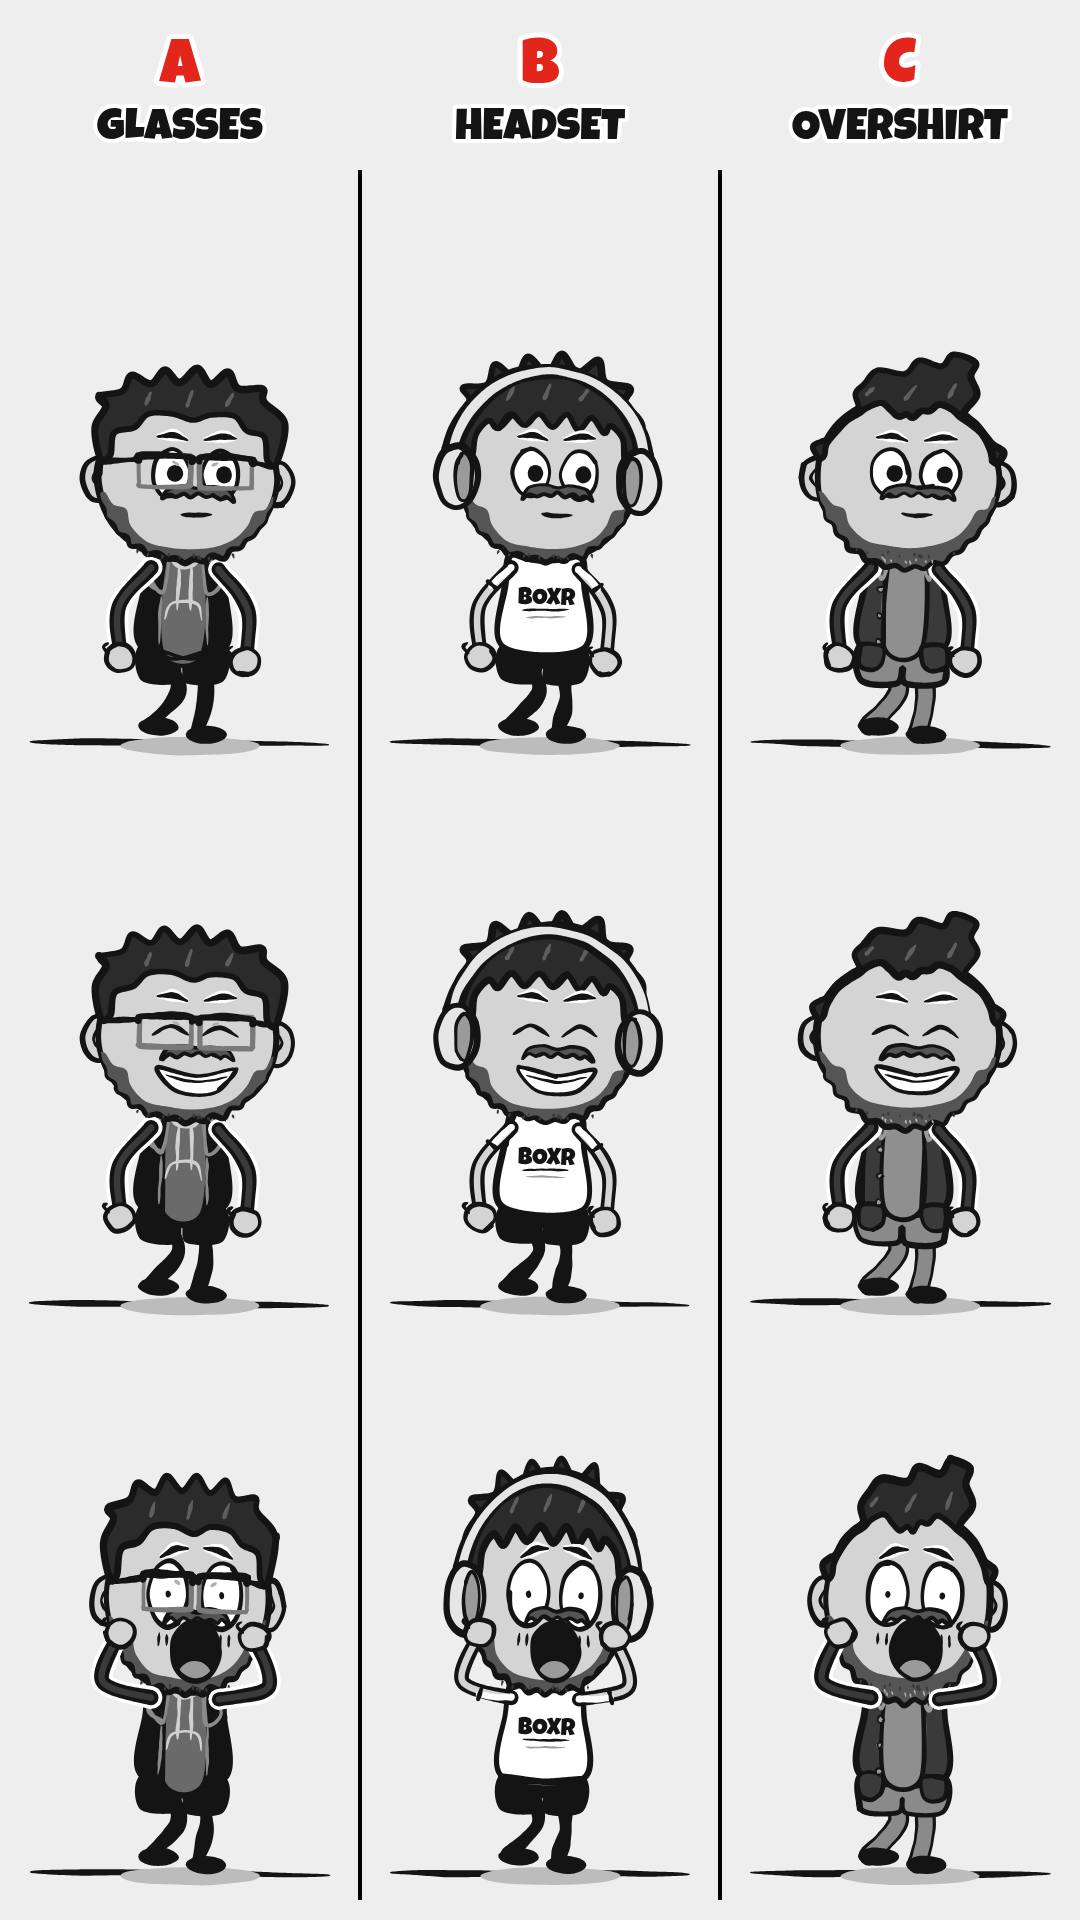
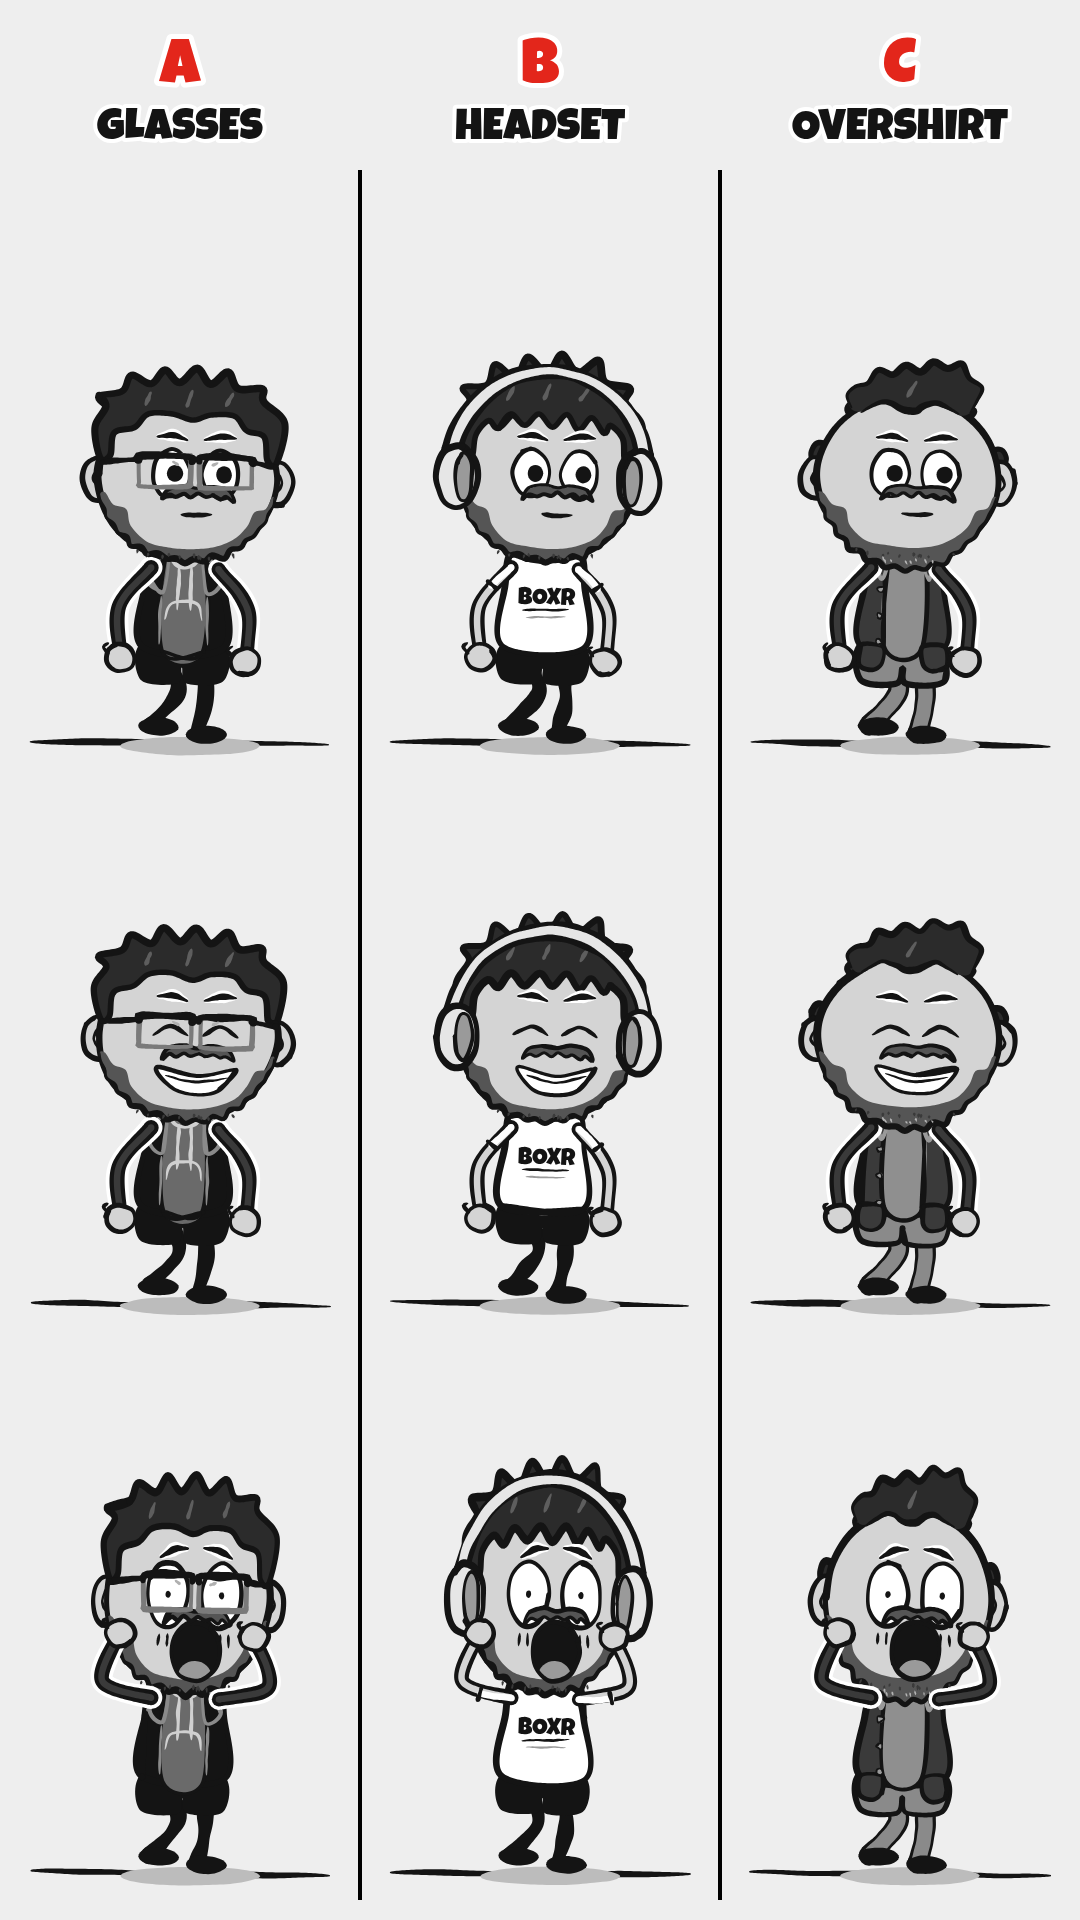
Squeex C: hairline receded further, M-shaped with hair behind the dome
The crown sits further back with bare temples down to the head outline,
a small rounded lobe in the middle, and hair behind the head round the
crown and over the ears, so it reads as hair that has receded. Only
draft C's hair changed.

Claude-Session: https://claude.ai/code/session_01RKmGcx8q1V1rbfKyx6bNrn

diff --git a/web/cameos.js b/web/cameos.js
@@ -1119,19 +1119,36 @@ const Cameos = (() => {
     [[0.88, -0.24], [0.84, -0.5], [0.7, -0.66], [0.62, -0.56], [0.48, -0.74], [0.34, -0.6], [0.2, -0.78], [0.04, -0.62], [-0.12, -0.78],
      [-0.28, -0.62], [-0.44, -0.76], [-0.58, -0.58], [-0.7, -0.68], [-0.84, -0.5], [-0.88, -0.24]],
     [[[-0.5, -0.92], [-0.42, -1.1]], [[-0.08, -0.94], [0.0, -1.14]], [[0.34, -0.94], [0.44, -1.12]]]];
-  const SQ_UP = [   // C: pushed up and back in three locks, the front one lifting off
-    // receding hairline: the outer edge hugs the head at both temples, so the
-    // bare corners show the head outline there (a clear M), with the top mass
-    // starting above them and short hair over the ears below
-    [[-0.98, -0.2], [-1.05, -0.34], [-0.96, -0.42], [-0.9, -0.46], [-0.8, -0.62], [-0.68, -0.74], [-0.56, -0.84],
-     [-0.6, -1.02], [-0.5, -1.16], [-0.36, -1.32], [-0.06, -1.3], [0.08, -1.46], [0.34, -1.4], [0.46, -1.56], [0.7, -1.46],
-     [0.66, -1.28], [0.74, -1.06], [0.6, -0.82], [0.72, -0.7], [0.84, -0.54], [0.92, -0.44], [1.04, -0.34], [0.98, -0.2]],
-    // inner edge stays just inside the head outline through the bays, then
-    // dips to a small tufted forelock in the middle
-    [[0.93, -0.24], [0.9, -0.38], [0.8, -0.56], [0.68, -0.69], [0.56, -0.78], [0.46, -0.86], [0.32, -0.92], [0.22, -0.84],
-     [0.12, -0.84], [0.04, -0.75], [-0.04, -0.79], [-0.12, -0.75], [-0.22, -0.84], [-0.32, -0.92], [-0.46, -0.86],
-     [-0.56, -0.78], [-0.68, -0.69], [-0.8, -0.56], [-0.9, -0.38], [-0.93, -0.24]],
-    [[[-0.5, -1.0], [-0.4, -1.12]], [[-0.06, -0.96], [0.06, -1.16]], [[0.42, -1.0], [0.5, -1.2]]]];
+  // C: receded crown of curls, growing out of sqBackHair (the band round the
+  // dome behind the head). The ends start on that band, so only the curly top
+  // and the hairline are inked and the crown never reads as a separate cap.
+  // The hairline is an M: deep bare notches over each brow, a small rounded lobe in the middle.
+  const SQ_CROWN = [[-0.64, -0.84], [-0.7, -1.0], [-0.6, -1.12], [-0.46, -1.16], [-0.36, -1.32], [-0.2, -1.28], [-0.06, -1.4],
+                    [0.1, -1.32], [0.24, -1.46], [0.4, -1.38], [0.56, -1.44], [0.64, -1.26], [0.78, -1.14], [0.74, -0.98], [0.66, -0.82]];
+  const SQ_LINE_M = [[0.54, -0.8], [0.42, -0.88], [0.3, -0.94], [0.2, -0.92], [0.13, -0.88], [0.07, -0.84], [0, -0.83],
+                     [-0.07, -0.84], [-0.13, -0.88], [-0.2, -0.92], [-0.3, -0.94], [-0.42, -0.88], [-0.54, -0.8]];
+  const sqCrown = ctx => {
+    fill(ctx, hu([...SQ_CROWN, ...SQ_LINE_M]), SQ_HAIR, 1);
+    stroke(ctx, hu(SQ_CROWN), { w: 11, taper0: 0.3, taper1: 0.3 });   // the ends sit on the back band, outside the head outline
+    stroke(ctx, hu(SQ_LINE_M), { w: 11, taper0: 0.5, taper1: 0.5 });
+    stroke(ctx, hu([[-0.04, -1.0], [0.06, -1.2]]), { w: 7, taper0: 0.15, taper1: 0.35, color: SQ_LINE });
+  };
+  // C: hair behind the head, round the top of the dome under the crown and
+  // down to the ears at the sides. It breaks at the temples, so bare skin
+  // meets the head outline there.
+  const sqBackHair = ctx => {
+    for (const [a0, a1] of [[0.97, 1.12], [1.28, 1.72], [1.88, 2.03]]) {
+      const outer = [], inner = [], n = Math.round((a1 - a0) * 24);
+      for (let i = 0; i <= n; i++) {
+        const a = Math.PI * (a0 + (a1 - a0) * i / n), r = 1.07 + (i % 2 ? 0.035 : 0);   // a little curl in the edge
+        outer.push([Math.cos(a) * r, Math.sin(a) * r]);
+        inner.push([Math.cos(a) * 0.86, Math.sin(a) * 0.86]);
+      }
+      const band = hu([...outer, ...inner.reverse()]);
+      fill(ctx, band, SQ_HAIR, 1);
+      outline(ctx, band, { w: 10 });
+    }
+  };
   const sqHair = h => outlineHair(...h, SQ_HAIR, { lineColor: SQ_LINE });
   const sqEars = ctx => {
     for (const side of [-1, 1]) {
@@ -1200,7 +1217,7 @@ const Cameos = (() => {
       body: { legColor: '#8a8a8a',   // khakis, a mid grey so they don't read as bare legs, waist to ankle
         bottoms: (ctx, hipY) => { const b = [[-64, hipY - 12], [64, hipY - 12], [70, hipY + 50], [8, hipY + 56], [0, hipY + 30], [-8, hipY + 56], [-70, hipY + 50]];
           fill(ctx, b, '#8a8a8a', 1.2); outline(ctx, b, { w: 9 }); } },
-      head: head({ skin: SQ_SKIN, back: sqEars, hair: sqHair(SQ_UP), beard: sqBeard({ full: 0.12, flecks: true }), front: sqStache, browW: 9 }),
+      head: head({ skin: SQ_SKIN, back: ctx => { sqBackHair(ctx); sqEars(ctx); }, hair: sqCrown, beard: sqBeard({ full: 0.12, flecks: true }), front: sqStache, browW: 9 }),
       detail: overshirt }),
   };
 
